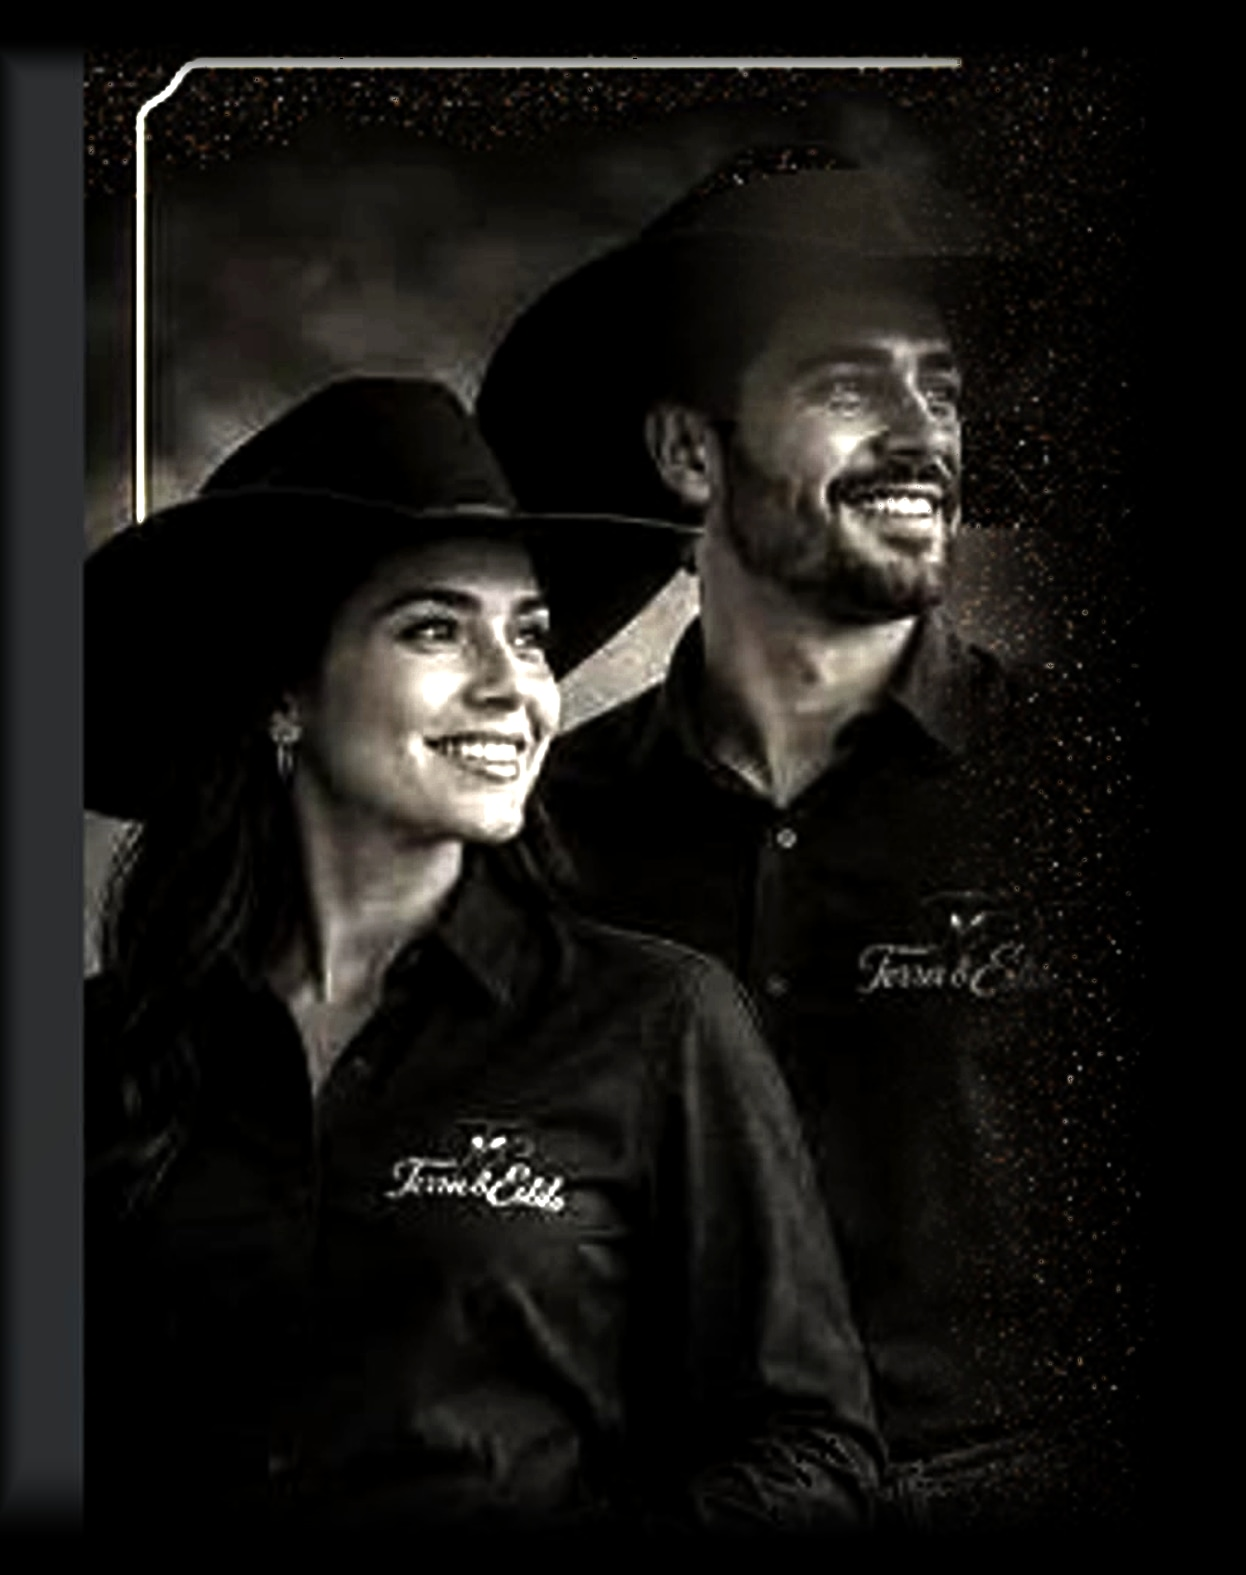
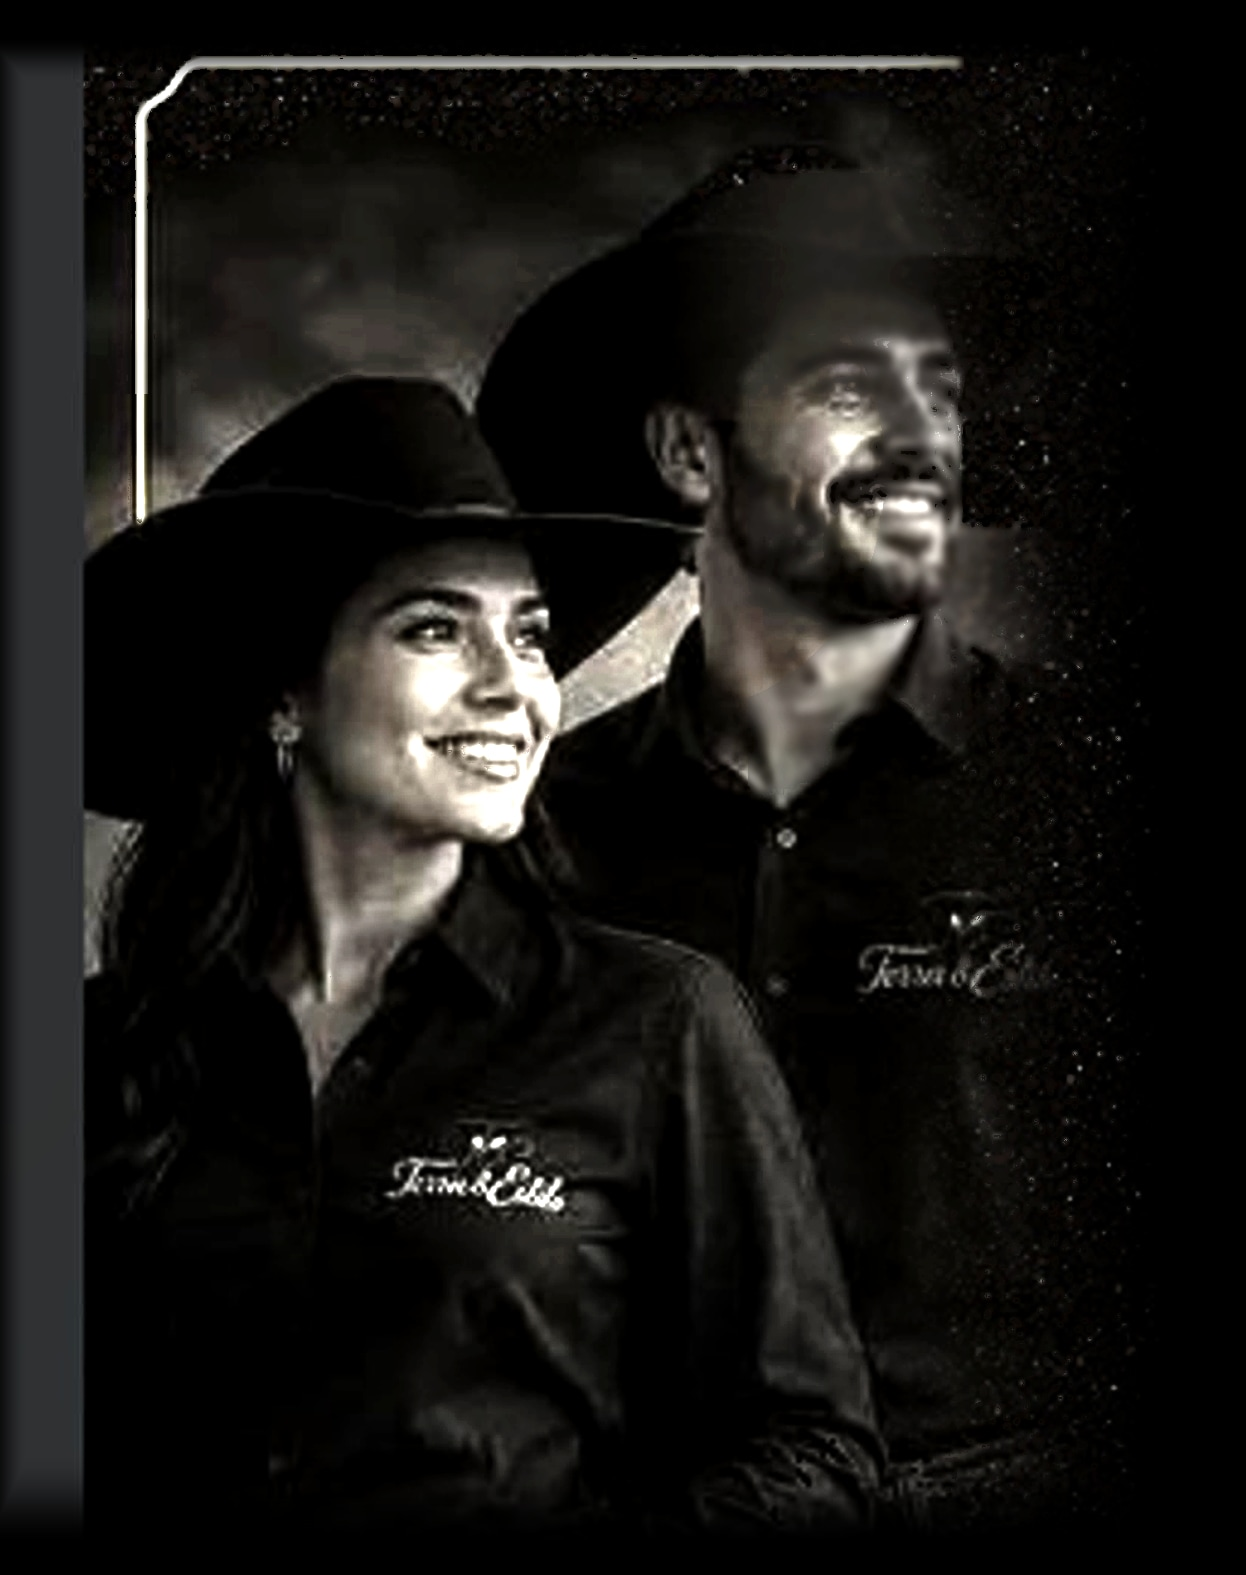
Ajuste

diff --git a/src/home.css b/src/home.css
@@ -1220,7 +1220,7 @@
   object-fit: cover;
   /* Keep faces clear of the logo seam */
   object-position: 36% 26%;
-  filter: brightness(1.34) contrast(1.06) saturate(1.02);
+  filter: brightness(1.38) contrast(1.06) saturate(1.02);
   -webkit-mask-image: none;
   mask-image: none;
   transform: none;
@@ -1669,7 +1669,7 @@
   .hero-models__img {
     object-fit: cover;
     object-position: 50% 24%;
-    filter: brightness(1.34) contrast(1.06) saturate(1.02);
+    filter: brightness(1.38) contrast(1.06) saturate(1.02);
     -webkit-mask-image: none;
     mask-image: none;
   }
